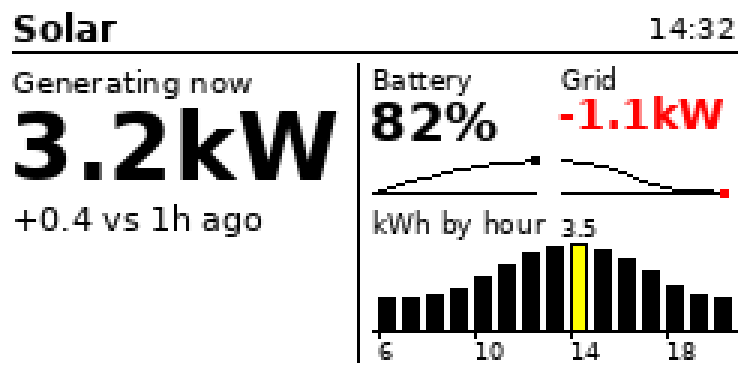
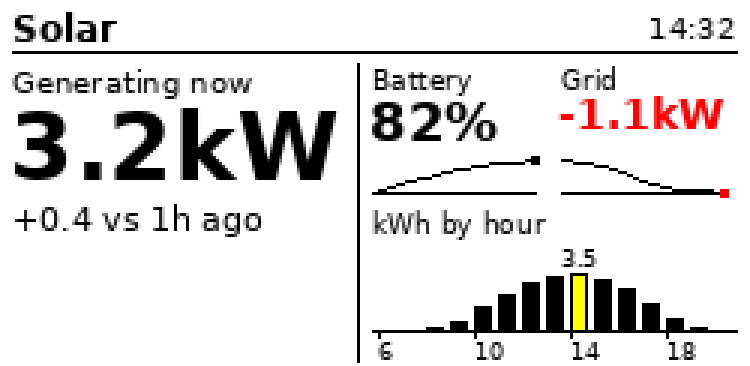
Token weather example: weekly ccusage totals as a tag dashboard; fix column baseline
Claude-Session: https://claude.ai/code/session_011espVmMQKFdqRBih3BDBJ6

Changed region(s): [[0.4907, 0.6011, 0.9813, 0.9016]]

diff --git a/ts/test/upload.test.ts b/ts/test/upload.test.ts
@@ -21,6 +21,8 @@ class Tag implements BleTransport {
   packetCount = 0;
   patchRefresh = 0;
   patchVerify = 0;
+  shortBitmap = false;
+  completePatchBitmap = false;
   allocStatus = 255;
   silent = false;
   malformed = false;
@@ -52,8 +54,9 @@ class Tag implements BleTransport {
     else {
       const bitmap = Array(Math.ceil(this.packetCount / 8)).fill(255);
       const patch = command === 2 ? this.patchVerify-- > 0 : this.patchRefresh-- > 0;
-      if (patch) bitmap[0] &= ~0x20; // Packet 2 missing.
-      payload = command === 2 ? bitmap : patch ? [0x68, ...bitmap] : [255];
+      if (patch && !this.completePatchBitmap) bitmap[0] &= ~0x20; // Packet 2 missing.
+      const reported = patch && this.shortBitmap ? bitmap.slice(0, 1) : bitmap;
+      payload = command === 2 ? reported : patch ? [0x68, ...reported] : [255];
     }
     const reply = response(command, payload);
     if (this.malformed) reply[5] ^= 1;
@@ -94,6 +97,22 @@ test('allocation failure stops before data and disconnects', async () => {
   await expect(uploadContainer(tag, container(), fast)).rejects.toThrow('Allocation failed');
   expect(tag.frames.length).toBe(1); expect(tag.disconnected).toBe(1);
 });
+test('short verify bitmaps retransmit every packet without a reported bit', async () => {
+  const tag = new Tag(); tag.writeSize = 244; tag.patchVerify = 1; tag.shortBitmap = true;
+  await uploadContainer(tag, container(true), fast);
+  const firstVerify = tag.frames.findIndex(f => f[3] === 1 && f[6] === 2);
+  const nextVerify = tag.frames.findIndex((f, i) => i > firstVerify && f[3] === 1 && f[6] === 2);
+  expect(tag.frames.slice(firstVerify + 1, nextVerify).map(f => f[8])).toEqual([
+    2, ...Array.from({ length: 162 }, (_, i) => i + 8),
+  ]);
+  expect(tag.disconnected).toBe(1);
+});
+test('refresh rejects a missing-packet status with a complete bitmap immediately', async () => {
+  const tag = new Tag(); tag.patchRefresh = 1; tag.completePatchBitmap = true;
+  await expect(uploadContainer(tag, container(), fast)).rejects.toThrow('bitmap is complete');
+  expect(tag.frames.filter(f => f[3] === 1 && f[6] === 4).length).toBe(1);
+  expect(tag.disconnected).toBe(1);
+});
 test('recovery is limited to three retransmissions', async () => {
   const tag = new Tag(); tag.patchRefresh = 20;
   await expect(uploadContainer(tag, container(), fast)).rejects.toThrow('3 patch rounds');
@@ -110,6 +129,20 @@ test('missing/invalid replies and hung writes time out with cleanup', async () =
 test('unexpected disconnect interrupts the upload', async () => {
   const tag = new Tag(); tag.disconnectOnData = true;
   await expect(uploadContainer(tag, container(), fast)).rejects.toThrow('disconnected');
+  expect(tag.disconnected).toBe(1);
+  expect(tag.input).toEqual([]);
+  expect(tag.frames.filter(f => f[3] === 2).length).toBe(1);
+});
+test('synchronous abort during a write prevents all subsequent writes', async () => {
+  const tag = new Tag(); const controller = new AbortController();
+  const write = tag.write.bind(tag);
+  tag.write = async data => {
+    await write(data);
+    if (tag.frames.some(f => f[3] === 2)) controller.abort(new Error('stop now'));
+  };
+  await expect(uploadContainer(tag, container(), { ...fast, signal: controller.signal })).rejects.toThrow('stop now');
+  expect(tag.input).toEqual([]);
+  expect(tag.frames.filter(f => f[3] === 2).length).toBe(1);
   expect(tag.disconnected).toBe(1);
 });
 test('abort and concurrent use are handled without disconnecting another upload', async () => {

diff --git a/ts/src/upload.ts b/ts/src/upload.ts
@@ -51,8 +51,16 @@ export async function uploadContainer(
   // Own a snapshot so callers cannot change an image halfway through an upload.
   const bytes = container.slice();
   active.add(transport);
-  let fail!: (reason: unknown) => void;
-  const failed = new Promise<never>((_, reject) => { fail = reject; });
+  let rejectFailure!: (reason: unknown) => void;
+  let closed = false;
+  let failure: unknown;
+  const failed = new Promise<never>((_, reject) => { rejectFailure = reject; });
+  const fail = (reason: unknown) => {
+    if (closed) return;
+    closed = true;
+    failure = reason;
+    rejectFailure(reason);
+  };
   void failed.catch(() => {});
   const abort = () => fail(options.signal?.reason ?? new Error('Upload cancelled'));
   options.signal?.addEventListener('abort', abort, { once: true });
@@ -75,6 +83,8 @@ export async function uploadContainer(
   }
   async function send(frame: Uint8Array): Promise<void> {
     for (const write of splitWrites(frame, transport.writeSize)) {
+      // Do not start another write after a synchronous disconnect/abort callback.
+      if (closed) throw failure;
       await bounded(transport.write(write));
       if (delay) await pause(delay);
     }
@@ -96,7 +106,10 @@ export async function uploadContainer(
         if (final && reply.status === 0xff) return;
         if (final && reply.status !== 0x68) throw new Error(`Refresh failed: status 0x${reply.status.toString(16)}`);
         const missing = missingPackets(reply, packets.length);
-        if (!final && !missing.length) return;
+        if (!missing.length) {
+          if (final) throw new Error('Refresh reports missing packets but its bitmap is complete');
+          return;
+        }
         if (round === 3) throw new Error('Packets still missing after 3 patch rounds');
         await sendSelected(packets, missing);
         await pause(100);

diff --git a/ts/test/codec.test.ts b/ts/test/codec.test.ts
@@ -48,7 +48,9 @@ test('observed responses, notification padding, checksums and bitmap offsets', (
   expect(sdk.parseResponse(bytes('58544502080304ff'))).toBeUndefined();
   expect(sdk.missingPackets(sdk.parseResponse(bytes('5854450409490468dd'))!, 8)).toEqual([2,6]);
   expect(sdk.missingPackets(sdk.parseResponse(bytes('5854450408df02dd'))!, 8)).toEqual([2,6]);
-  expect(() => sdk.missingPackets(sdk.parseResponse(bytes('5854450408df02dd'))!, 9)).toThrow('Truncated');
+  expect(sdk.missingPackets(sdk.parseResponse(bytes('5854450408df02dd'))!, 9)).toEqual([2,6,8]);
+  expect(sdk.missingPackets(sdk.parseResponse(bytes('5854450409490468ddffff'))!, 10)).toEqual([2,6,8,9]);
+  expect(sdk.missingPackets(sdk.parseResponse(bytes('58544504086c0468'))!, 3)).toEqual([0,1,2]);
 });
 test('advertisement decoding and input bounds', () => {
   expect(sdk.parseAdvertisement(bytes('5852fd024002008c63060102ffff1c'))).toMatchObject({

diff --git a/ts/src/codec.ts b/ts/src/codec.ts
@@ -178,8 +178,8 @@ export function missingPackets(response: ResponseFrame, total: number): number[]
     [4, 5].includes(response.command) && response.status === 0x68 ? 8 : -1;
   if (offset < 0) throw new Error('Response does not contain a packet bitmap');
   const bitmap = response.bytes.subarray(offset);
-  if (bitmap.length * 8 < total) throw new Error('Truncated packet bitmap');
-  return Array.from({ length: total }, (_, i) => i).filter(i => !(bitmap[i >> 3] & (0x80 >> (i % 8))));
+  // Bits absent from the declared frame are missing too; never use padding.
+  return Array.from({ length: total }, (_, i) => i).filter(i => !((bitmap[i >> 3] ?? 0) & (0x80 >> (i % 8))));
 }
 export function parseAdvertisement(data: Uint8Array) {
   if (data.length < 15 || data[0] !== 0x58 || ![0x54, 0x52].includes(data[1]) ||

diff --git a/examples/token_weather.py b/examples/token_weather.py
@@ -1,0 +1,99 @@
+#!/usr/bin/env python3
+"""Token weather: this week's LLM token usage from ccusage, as a tag dashboard.
+
+    ./examples/token_weather.py --push 9F:1D:00:0B:33:36
+    ./examples/token_weather.py --budget 500M -o tokens.png --scale 3     # preview only
+    */15 * * * *  cd ~/Projects/xte-esl && .venv/bin/python examples/token_weather.py --push 9F:1D:00:0B:33:36
+
+Reads `bunx ccusage daily --json --offline` for Monday to today, builds a
+dashboard spec and hands it to python/dashboard.py. Nothing is stored; the
+usage figures never leave this machine unless you push them to the tag.
+
+Layout: hero = week-to-date tokens, with estimated cost and output tokens
+beneath; chart = daily totals Mon..Sun in millions with today highlighted and
+the cache-hit rate in its label; meter = share of --budget used (omit
+--budget for no meter). The hero turns red if the cache-hit rate drops
+below 50%.
+"""
+
+import argparse
+import datetime as dt
+import json
+import subprocess
+import sys
+from pathlib import Path
+
+HERE = Path(__file__).resolve().parent
+DASHBOARD = HERE.parent / "python" / "dashboard.py"
+
+
+def compact(n: float) -> str:
+    for unit, div in (("B", 1e9), ("M", 1e6), ("K", 1e3)):
+        if n >= div:
+            v = n / div
+            return f"{v:.1f}{unit}" if v < 10 else f"{v:.0f}{unit}"
+    return f"{n:.0f}"
+
+
+def parse_budget(s: str) -> float:
+    s = s.strip().upper()
+    mult = {"K": 1e3, "M": 1e6, "B": 1e9}.get(s[-1], 1)
+    return float(s.rstrip("KMB")) * mult
+
+
+def ccusage(since: dt.date, until: dt.date) -> dict:
+    cmd = ["bunx", "ccusage", "daily", "--since", since.strftime("%Y%m%d"),
+           "--until", until.strftime("%Y%m%d"), "--json", "--offline"]
+    out = subprocess.run(cmd, capture_output=True, text=True, timeout=120)
+    if out.returncode != 0:
+        sys.exit(f"ccusage failed: {out.stderr.strip()[:300]}")
+    return json.loads(out.stdout)
+
+
+def build_spec(data: dict, monday: dt.date, today: dt.date, budget: float | None) -> dict:
+    by_day = {d["period"]: d for d in data.get("daily", [])}
+    days = [monday + dt.timedelta(days=i) for i in range(7)]
+    totals = [by_day.get(d.isoformat(), {}).get("totalTokens", 0) for d in days]
+    week_total = sum(totals)
+    out_tokens = sum(by_day.get(d.isoformat(), {}).get("outputTokens", 0) for d in days)
+    cache_read = sum(by_day.get(d.isoformat(), {}).get("cacheReadTokens", 0) for d in days)
+    cost = sum(by_day.get(d.isoformat(), {}).get("totalCost", 0.0) for d in days)
+    hit = (cache_read / week_total * 100) if week_total else 0.0
+    today_idx = (today - monday).days
+    spec = {
+        "title": f"Tokens wk {monday.isocalendar()[1]}",
+        "updated": today.strftime("%a %H:%M") if isinstance(today, dt.datetime) else dt.datetime.now().strftime("%a %H:%M"),
+        "hero": {"label": "Week to date", "value": compact(week_total),
+                 "delta": f"${cost:,.0f} est. · {compact(out_tokens)} out", "alert": hit < 50 and week_total > 0},
+        "chart": {"type": "columns", "label": f"Daily, M · {hit:.0f}% cached",
+                  "values": [round(t / 1e6, 1) for t in totals],
+                  "highlight": today_idx, "ticks": [[i, "MTWTFSS"[i]] for i in range(7)]},
+    }
+    if budget:
+        spec["meter"] = {"label": "Budget", "value": min(1.0, week_total / budget), "warn": 0.8}
+    return spec
+
+
+def main() -> int:
+    ap = argparse.ArgumentParser(description=__doc__, formatter_class=argparse.RawDescriptionHelpFormatter)
+    ap.add_argument("--budget", help="weekly token budget for the meter, e.g. 500M")
+    ap.add_argument("-o", "--out", default="tokens.png")
+    ap.add_argument("--scale", type=int, default=1)
+    ap.add_argument("--push", metavar="ADDRESS")
+    ap.add_argument("--spec-only", action="store_true", help="print the spec JSON and exit")
+    a = ap.parse_args()
+
+    today = dt.date.today()
+    monday = today - dt.timedelta(days=today.weekday())
+    spec = build_spec(ccusage(monday, today), monday, today, parse_budget(a.budget) if a.budget else None)
+    if a.spec_only:
+        print(json.dumps(spec, indent=2))
+        return 0
+    cmd = [sys.executable, str(DASHBOARD), "-", "-o", a.out, "--scale", str(a.scale)]
+    if a.push:
+        cmd += ["--push", a.push]
+    return subprocess.run(cmd, input=json.dumps(spec), text=True).returncode
+
+
+if __name__ == "__main__":
+    sys.exit(main())

diff --git a/python/dashboard.py b/python/dashboard.py
@@ -159,14 +159,17 @@ def columns(d, box: Box, spec: dict) -> None:
     hi = max(values) or 1.0
     lo = min(0.0, min(values))
     span = (hi - lo) or 1.0
-    base_y = plot.y2 - round((0 - lo) / span * (plot.h - 12))
+    label_room = 10                                   # one row above the tallest bar for its value
+    bar_h = max(1, plot.h - label_room)
+    scale = lambda v: round((v - lo) / span * (bar_h - 1))
+    base_y = plot.y2 - scale(0)
     highlight = spec.get("highlight")
     alert_above = spec.get("alert_above")
     fl = font(REGULAR, 8)
     extreme = max(range(n), key=lambda i: values[i])
     for i, v in enumerate(values):
         x = x0 + i * (bw + gap)
-        top = plot.y2 - 11 - round((v - lo) / span * (plot.h - 12))
+        top = plot.y2 - scale(v)
         ink = BLACK
         if alert_above is not None and v > alert_above:
             ink = RED
@@ -178,11 +181,11 @@ def columns(d, box: Box, spec: dict) -> None:
                 d.rectangle([x, top, x + bw - 1, base_y], outline=BLACK, width=1)
         else:
             d.rectangle([x, base_y, x + bw - 1, top], fill=ink)
-        if i == extreme and bw >= 6:                     # direct-label the extreme only
+        if i == extreme and bw >= 6 and top - label_room >= plot.y:   # direct-label the extreme only
             s = f"{v:g}"
             tw = d.textlength(s, font=fl)
             lx = min(max(plot.x, x + (bw - tw) / 2), plot.x2 - tw)
-            d.text((lx, top - 10), s, fill=BLACK, font=fl)
+            d.text((lx, top - label_room), s, fill=BLACK, font=fl)
     d.line([plot.x, base_y, plot.x2, base_y], fill=BLACK, width=1)
     for i, t in ticks:
         if 0 <= int(i) < n:

diff --git a/examples/README.md b/examples/README.md
@@ -5,6 +5,7 @@
 | `qr_label.py` | renders a QR code plus three lines of text in the four inks |
 | `github-qr.png` | its output for `https://github.com/mattjoyce`, a good first test image |
 | `dashboard-solar.json` | dashboard spec: hero figure, two tiles with sparklines, column chart with highlight and hour ticks |
+| `token_weather.py` | this week's LLM token usage from `ccusage` as a dashboard; `--budget 500M` adds the meter, `--push` sends it. Nothing is stored. |
 | `dashboard-server.json` | dashboard spec: three tiles, a line chart with an alert threshold, a disk meter |
 
 Needs `pip install qrcode pillow` (both in the quick-start install line).

diff --git a/skills/xte-push/SKILL.md b/skills/xte-push/SKILL.md
@@ -54,6 +54,12 @@ draw that value in red; leave everything else black. Push a dashboard no
 more often than every few minutes: each refresh is a 20-second full-panel
 waveform.
 
+This week's token usage (from ccusage, needs bun):
+
+```sh
+.venv/bin/python examples/token_weather.py --budget 500M --push 9F:1D:00:0B:33:36
+```
+
 An existing image (resized to 250x122; add `--no-dither` for flat graphics,
 omit it for photos):
 
